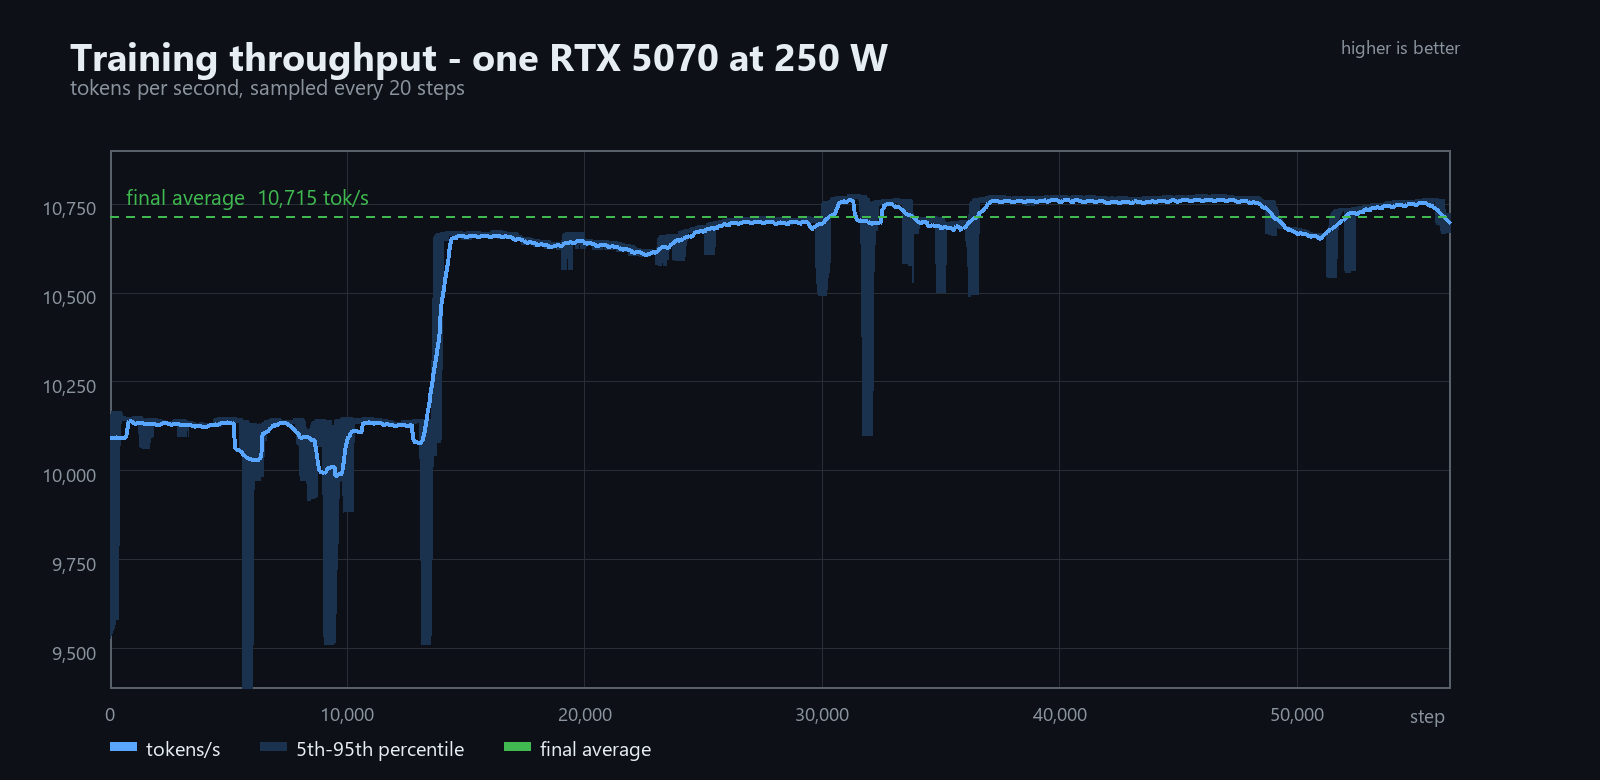
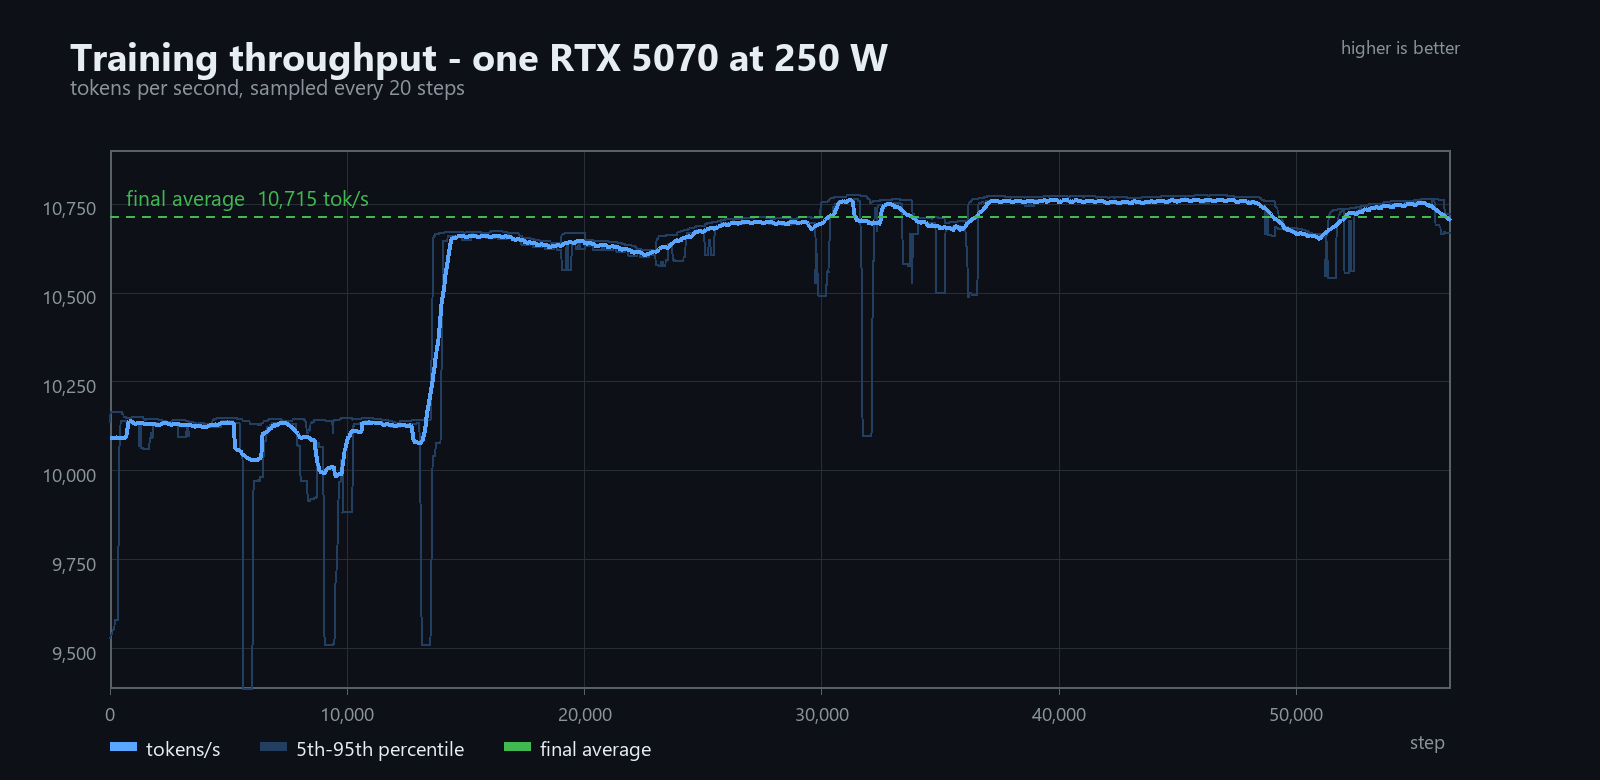
polish: chart readability - clean margins, percentile envelope, LR ticks
- throughput: the raw 20-step samples turned into a sawtooth once both logs
  were merged, so the chart now shows the rolling 5th-95th percentile envelope
  as two faint lines under the smoothed curve. The dips that remain are real:
  checkpoint writes and the two times I compiled while the run was going.
- both charts wipe the margin below the frame before drawing axis labels; a
  grid line was bleeding into the legend area.
- loss chart: the learning-rate axis printed every tick as 0 because it used
  the integer formatter. It now formats as 4.0e-4 / 3.0e-4 / ...

diff --git a/tools/make_charts.py b/tools/make_charts.py
@@ -307,7 +307,8 @@ def chart_throughput(steps, toks, out_dir):
     # keep the envelope inside the frame (deep dips would paint over the border)
     env_lo = np.maximum(env_lo, ax.ylim[0])
     env_hi = np.minimum(env_hi, ax.ylim[1])
-    ax.band(steps, env_lo, env_hi, (26, 50, 78))
+    ax.polyline(steps, env_lo, (34, 62, 96), width=2)
+    ax.polyline(steps, env_hi, (34, 62, 96), width=2)
     ax.polyline(steps, smooth(toks, 60), BLUE, width=4)
 
     mean = float(np.mean(toks[-400:]))
@@ -316,10 +317,17 @@ def chart_throughput(steps, toks, out_dir):
         d.line([(x, y), (x + 8, y)], fill=GREEN, width=2)
     d.text((ax.x0 + 16, y - 34), f"final average  {mean:,.0f} tok/s", fill=GREEN, font=_font(21))
 
+    # wipe the margin below the frame, then draw the axis labels on a clean field
+    d.rectangle([0, ax.y1 + 3, W, H], fill=BG)
     f = _font(19)
-    d.text((ax.x1 - 40, ax.y1 + 14), "step", fill=MUTED, font=f)
+    for t in nice_ticks(0, steps[-1], 8):
+        x = ax.px(t)
+        d.line([(x, ax.y1), (x, ax.y1 + 6)], fill=AXIS, width=1)
+        lbl = f"{t:,.0f}"
+        d.text((x - d.textlength(lbl, font=f) / 2, ax.y1 + 12), lbl, fill=MUTED, font=f)
+    d.text((ax.x1 - 40, ax.y1 + 40), "step", fill=MUTED, font=f)
 
-    legend(img, [(BLUE, "tokens/s"), ((26, 50, 78), "5th-95th percentile"), (GREEN, "final average")],
+    legend(img, [(BLUE, "tokens/s"), ((34, 62, 96), "5th-95th percentile"), (GREEN, "final average")],
            PAD_L, H - 46)
     save(img, out_dir, "throughput.png")
 
